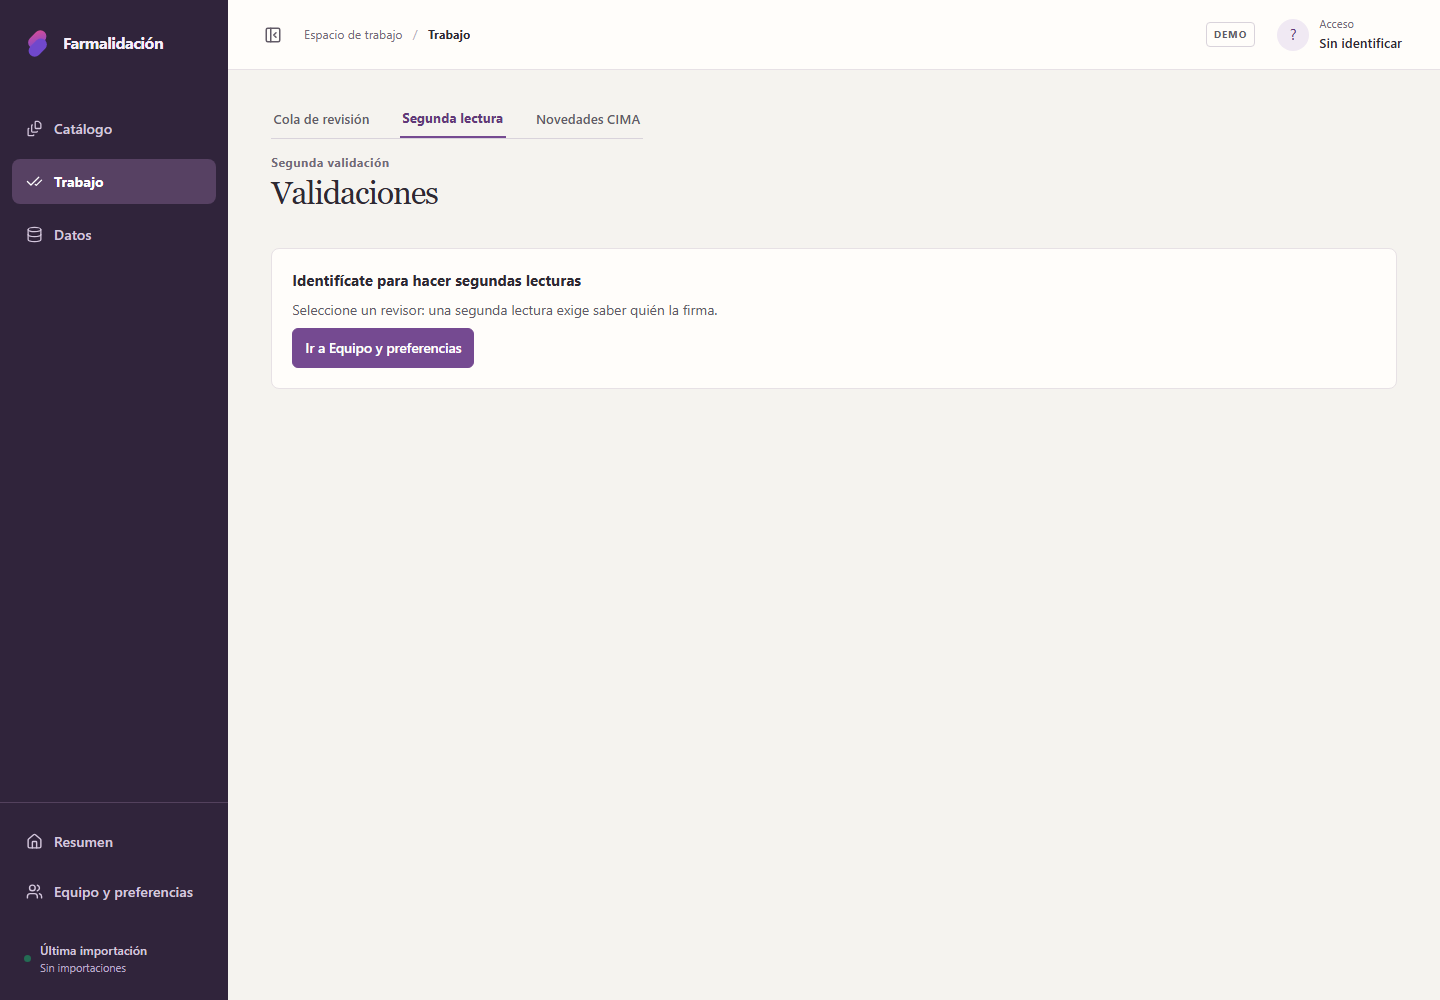
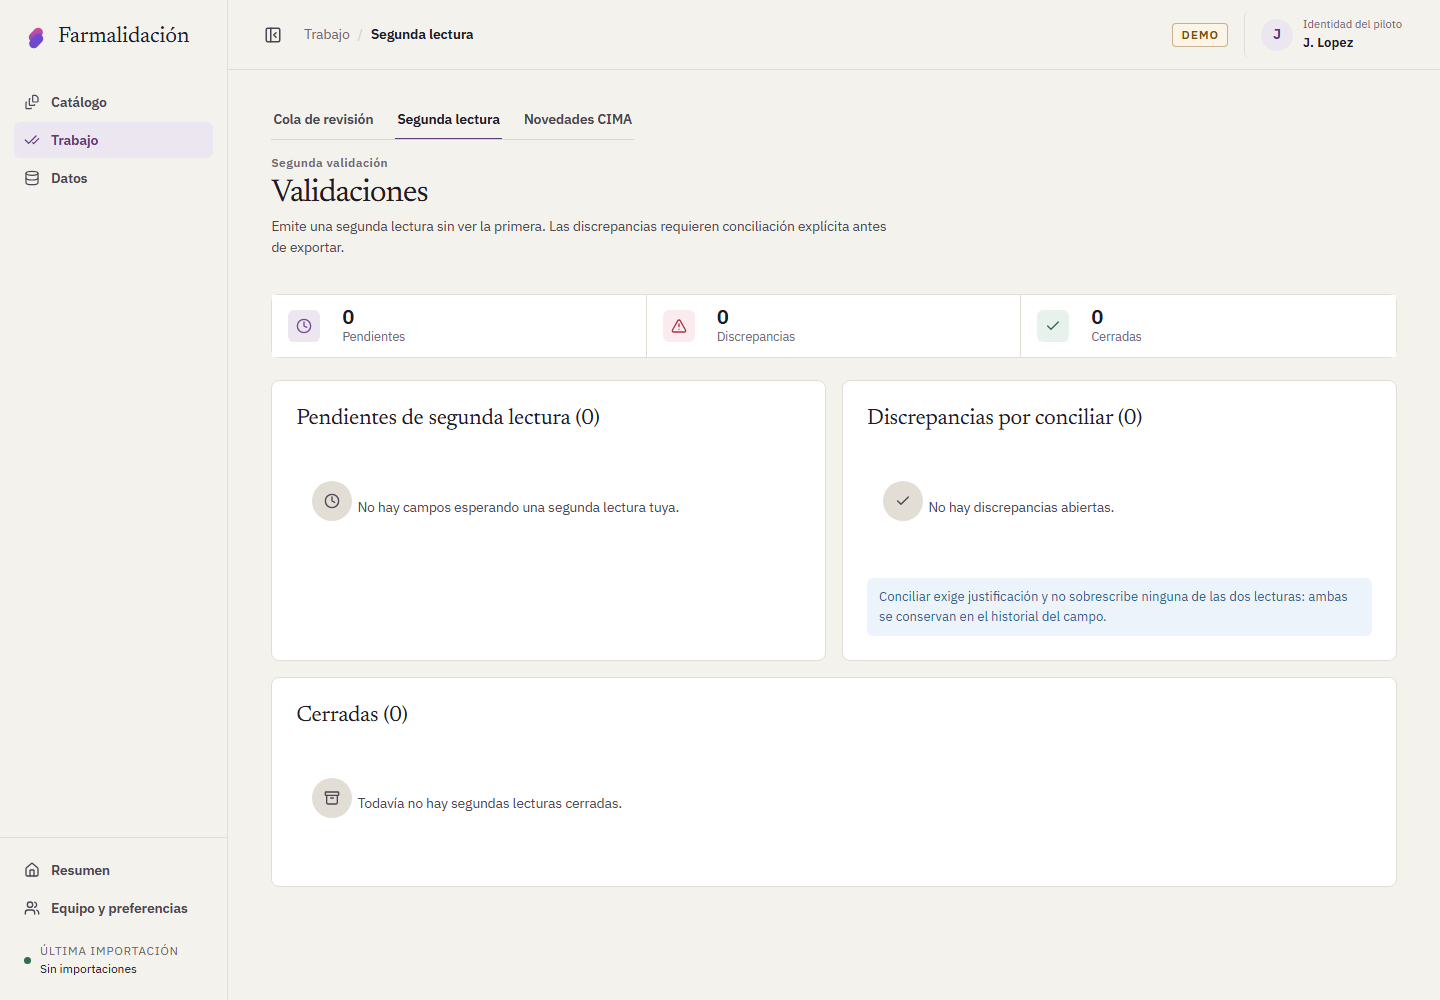
Recomponer Trabajo: alta en barra, iconos y títulos de recuadro
La cola integra «Añadir a la cola» como fila de herramientas sobre la
lista, de modo que «Mostrar filtros» se coloca junto a ella como en el
catálogo. Segunda lectura sustituye los caracteres usados como iconos
(◷, !, ✓, ◇) por iconos de la familia común y pasa sus textos a tú. Los
títulos de recuadro de toda la aplicación usan la letra de títulos,
igual que los bloques del expediente.

diff --git a/validador-fichas-tecnicas-repo-kit/frontend/src/screens/QueueScreen.tsx b/validador-fichas-tecnicas-repo-kit/frontend/src/screens/QueueScreen.tsx
@@ -106,30 +106,32 @@ export function QueueScreen({ reviewer }: { reviewer: Reviewer | null }) {
         <strong>{items.length}</strong><span>En cola</span>
       </div>} />
     {error && <div role='alert' className='alert alert--error'>{error} {stale && items.length > 0 && 'La lista muestra la última carga correcta y puede estar desactualizada.'} <button type='button' className='button button--secondary' disabled={loading || busy} onClick={() => void reload()}>Reintentar carga</button></div>}
-    <form className='queue-add panel' onSubmit={(event) => {
-          event.preventDefault()
-          void act(async () => {
-            await enqueueRecord(recordId.trim(), reviewSet, requiresSecondReview)
-            setRecordId('')
-          })
-        }}>
-          <div className='queue-toolbar__title'><Plus size={17} aria-hidden='true' /><span>Añadir registro a la cola</span></div>
-          <label className='field queue-add__record'><span className='field__label'>Registro</span>
-            <span className='input-with-icon'><Search size={16} aria-hidden='true' /><input placeholder='Identificador del registro' aria-label='Identificador del registro' value={recordId} onChange={(event) => setRecordId(event.target.value)} required /></span>
-          </label>
-          <label className='field'><span className='field__label'>Conjunto</span>
-            <select value={reviewSet} onChange={(event) => setReviewSet(event.target.value as QueueItem['review_set'])}>
-              <option value='corpus'>Corpus</option><option value='oro'>Oro</option><option value='medida'>Medida</option>
-            </select>
-          </label>
-          <label className='queue-check'><input type='checkbox' checked={requiresSecondReview} onChange={(event) => setRequiresSecondReview(event.target.checked)} /> Doble validación</label>
-          <button className='button button--primary' disabled={!canReview || busy || !recordId.trim()}><Plus size={16} aria-hidden='true' />Añadir</button>
-    </form>
     <FilterWorkspace
       title='Filtros de revisión'
       storageKey='farmalidacion.filters.queue.closed'
       activeCount={appliedFilterCount}
       className='queue-workspace'
+      toolbar={
+          <form className='queue-add' aria-label='Añadir registro a la cola' onSubmit={(event) => {
+                event.preventDefault()
+                void act(async () => {
+                  await enqueueRecord(recordId.trim(), reviewSet, requiresSecondReview)
+                  setRecordId('')
+                })
+              }}>
+                <span className='queue-add__title'>Añadir a la cola</span>
+                <label className='field queue-add__record'><span className='field__label'>Registro</span>
+                  <span className='input-with-icon'><Search size={16} aria-hidden='true' /><input placeholder='Identificador del registro' aria-label='Identificador del registro' value={recordId} onChange={(event) => setRecordId(event.target.value)} required /></span>
+                </label>
+                <label className='field'><span className='field__label'>Conjunto</span>
+                  <select value={reviewSet} onChange={(event) => setReviewSet(event.target.value as QueueItem['review_set'])}>
+                    <option value='corpus'>Corpus</option><option value='oro'>Oro</option><option value='medida'>Medida</option>
+                  </select>
+                </label>
+                <label className='queue-check'><input type='checkbox' checked={requiresSecondReview} onChange={(event) => setRequiresSecondReview(event.target.checked)} /> Doble validación</label>
+                <button className='button button--primary' disabled={!canReview || busy || !recordId.trim()}><Plus size={16} aria-hidden='true' />Añadir</button>
+          </form>
+      }
       filters={
         <>
           <label className='field'><span className='field__label'>Estado</span><select value={filter} onChange={(event) => setStateFilter(event.target.value)}><option value=''>Todos</option>{Object.entries(labels).map(([key, label]) => <option key={key} value={key}>{label}</option>)}</select></label>

diff --git a/validador-fichas-tecnicas-repo-kit/frontend/src/screens/SecondReviewScreen.tsx b/validador-fichas-tecnicas-repo-kit/frontend/src/screens/SecondReviewScreen.tsx
@@ -1,4 +1,5 @@
 import { useCallback, useEffect, useRef, useState } from 'react'
+import { AlertTriangle, Archive, Check, Clock } from 'lucide-react'
 
 import {
   ApiError,
@@ -132,7 +133,7 @@ export function SecondReviewScreen({ reviewer }: { reviewer: Reviewer | null }) 
 
   return (
     <div className='screen'>
-      <PageHeader eyebrow='Segunda validación' title='Validaciones' description='Emita una segunda lectura sin ver la primera. Las discrepancias requieren conciliación explícita antes de exportar.' />
+      <PageHeader eyebrow='Segunda validación' title='Validaciones' description='Emite una segunda lectura sin ver la primera. Las discrepancias requieren conciliación explícita antes de exportar.' />
       <h2 className='visually-hidden' ref={pageHeading} tabIndex={-1}>Lista de validaciones</h2>
 
       {notice && (
@@ -147,16 +148,16 @@ export function SecondReviewScreen({ reviewer }: { reviewer: Reviewer | null }) 
       )}
 
       <div className='validation-overview' aria-label='Resumen de validaciones'>
-        <div><span className='validation-overview__icon'>◷</span><strong>{open.length}</strong><small>Pendientes</small></div>
-        <div><span className='validation-overview__icon validation-overview__icon--danger'>!</span><strong>{conflicts.length}</strong><small>Discrepancias</small></div>
-        <div><span className='validation-overview__icon validation-overview__icon--success'>✓</span><strong>{closed.length}</strong><small>Cerradas</small></div>
+        <div><span className='validation-overview__icon' aria-hidden='true'><Clock size={16} /></span><strong>{open.length}</strong><small>Pendientes</small></div>
+        <div><span className='validation-overview__icon validation-overview__icon--danger' aria-hidden='true'><AlertTriangle size={16} /></span><strong>{conflicts.length}</strong><small>Discrepancias</small></div>
+        <div><span className='validation-overview__icon validation-overview__icon--success' aria-hidden='true'><Check size={16} /></span><strong>{closed.length}</strong><small>Cerradas</small></div>
       </div>
 
       <div className='validation-grid'>
       <section className='panel validation-panel'>
         <h2>Pendientes de segunda lectura ({open.length})</h2>
         {open.length === 0 ? (
-          <div className='empty-state empty-state--compact'><span className='empty-state__icon'>◷</span><p>No hay campos esperando una segunda lectura suya.</p></div>
+          <div className='empty-state empty-state--compact'><span className='empty-state__icon' aria-hidden='true'><Clock size={16} /></span><p>No hay campos esperando una segunda lectura tuya.</p></div>
         ) : (
           <ul className='conflicts'>
             {open.map((item) => (
@@ -251,7 +252,7 @@ export function SecondReviewScreen({ reviewer }: { reviewer: Reviewer | null }) 
       <section className='panel validation-panel'>
         <h2>Discrepancias por conciliar ({conflicts.length})</h2>
         {conflicts.length === 0 ? (
-          <div className='empty-state empty-state--compact'><span className='empty-state__icon'>✓</span><p>No hay discrepancias abiertas.</p></div>
+          <div className='empty-state empty-state--compact'><span className='empty-state__icon' aria-hidden='true'><Check size={16} /></span><p>No hay discrepancias abiertas.</p></div>
         ) : (
           <ul className='conflicts'>
             {conflicts.map((item) => (
@@ -278,7 +279,7 @@ export function SecondReviewScreen({ reviewer }: { reviewer: Reviewer | null }) 
       <section className='panel validation-panel'>
         <h2>Cerradas ({closed.length})</h2>
         {closed.length === 0 ? (
-          <div className='empty-state empty-state--compact'><span className='empty-state__icon'>◇</span><p>Todavía no hay segundas lecturas cerradas.</p></div>
+          <div className='empty-state empty-state--compact'><span className='empty-state__icon' aria-hidden='true'><Archive size={16} /></span><p>Todavía no hay segundas lecturas cerradas.</p></div>
         ) : (
           <ul className='conflicts'>
             {closed.map((item) => (

diff --git a/validador-fichas-tecnicas-repo-kit/frontend/src/screens/work.css b/validador-fichas-tecnicas-repo-kit/frontend/src/screens/work.css
@@ -1,22 +1,10 @@
 /* Trabajo: cola de revisión. */
 
-.app-shell .queue-add {
-  grid-template-columns: minmax(220px, 1fr) minmax(140px, 220px) auto auto;
-  align-items: end;
-  gap: var(--space-3);
-}
-.app-shell .queue-add .queue-toolbar__title { display: inline-flex; align-items: center; gap: var(--space-2); min-height: 34px; color: var(--ink); font-size: var(--text-sm); font-weight: var(--weight-semibold); white-space: nowrap; grid-column: 1 / -1; }
 .app-shell .queue-add .queue-check { min-height: 34px; font-size: var(--text-sm); }
 
 .app-shell .queue-list__icon { display: inline-grid; place-items: center; width: 28px; height: 28px; border-radius: var(--radius-small); color: var(--ink-soft); background: var(--line-soft); }
 .app-shell .queue-list__identity strong { font-family: var(--font-mono); font-size: var(--text-sm); font-weight: var(--weight-medium); }
 
-@media (max-width: 1100px) {
-  .app-shell .queue-add { grid-template-columns: minmax(200px, 1fr) minmax(130px, 180px) auto; }
-}
-@media (max-width: 700px) {
-  .app-shell .queue-add { grid-template-columns: 1fr; }
-}
 
 /* Filas de la cola: identidad, estado en columna fija y acciones discretas. */
 .app-shell .queue-list > li { grid-template-columns: auto minmax(220px, 1fr) 132px minmax(0, 420px); }
@@ -32,3 +20,11 @@
   .app-shell .queue-list > li { grid-template-columns: auto minmax(0, 1fr) 132px; }
   .app-shell .queue-list__actions { grid-column: 2 / -1; justify-content: flex-start; }
 }
+
+/* Alta en la cola: una fila de herramientas, no un recuadro. */
+.app-shell .queue-add { display: flex; flex-wrap: wrap; align-items: flex-end; gap: var(--space-3); margin: 0; padding: 0; border: 0; background: none; }
+.app-shell .queue-add__title { align-self: center; padding-top: 18px; color: var(--ink-faint); font-size: var(--text-xs); letter-spacing: .06em; text-transform: uppercase; white-space: nowrap; }
+.app-shell .queue-add__record { flex: 1 1 280px; }
+.app-shell .queue-add > .field:not(.queue-add__record) { flex: 0 1 180px; }
+.app-shell .queue-add .queue-check { height: var(--control-height); min-height: 0; }
+.app-shell .queue-workspace > .filter-workspace__toolbar { padding-bottom: var(--space-4); border-bottom: 1px solid var(--line-soft); }

diff --git a/validador-fichas-tecnicas-repo-kit/frontend/src/ui/components.css b/validador-fichas-tecnicas-repo-kit/frontend/src/ui/components.css
@@ -277,3 +277,7 @@ code, kbd, .mono { font-family: var(--font-mono); font-size: var(--text-code); f
 
 /* Títulos de sección dentro de una página: misma voz que «Maestros Excel». */
 .app-shell .page-header h2 { margin: 0; font-family: var(--font-display); font-size: var(--text-xl); font-weight: var(--weight-regular); letter-spacing: -.01em; }
+
+/* Títulos de recuadro con la voz de documento, como los bloques del expediente. */
+.app-shell :is(.panel > h2:first-child, .panel__head h2, .panel > header h2) { font-family: var(--font-display); font-size: var(--text-xl); font-weight: var(--weight-regular); letter-spacing: -.01em; }
+.app-shell :is(.validation-overview__icon, .empty-state__icon) { display: inline-grid; place-items: center; }
